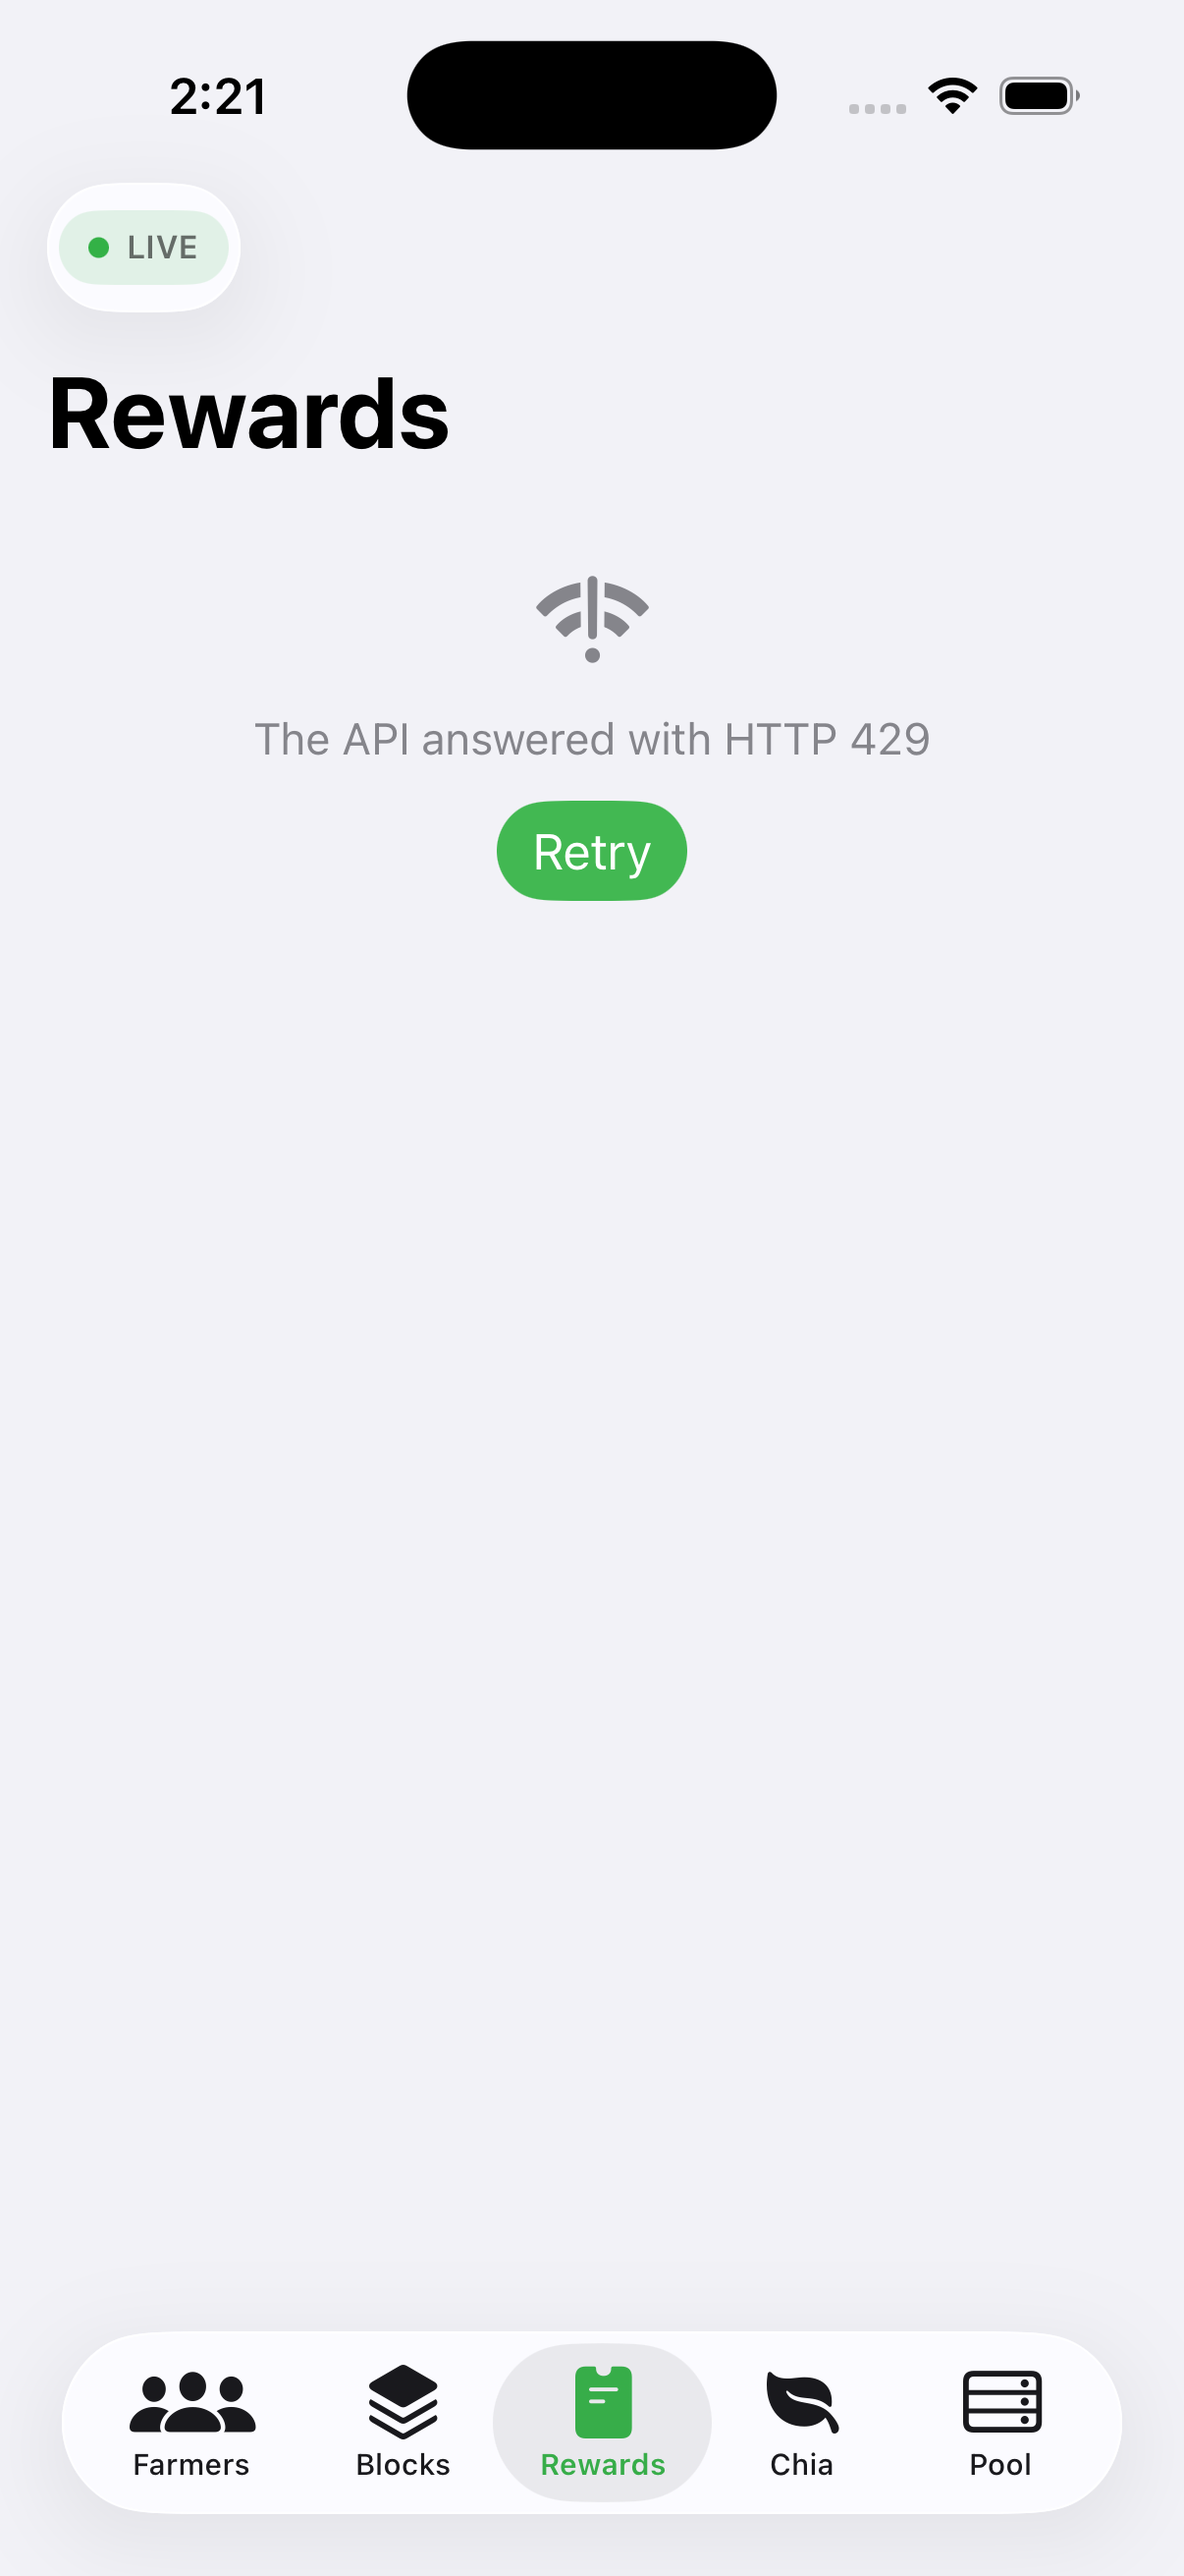
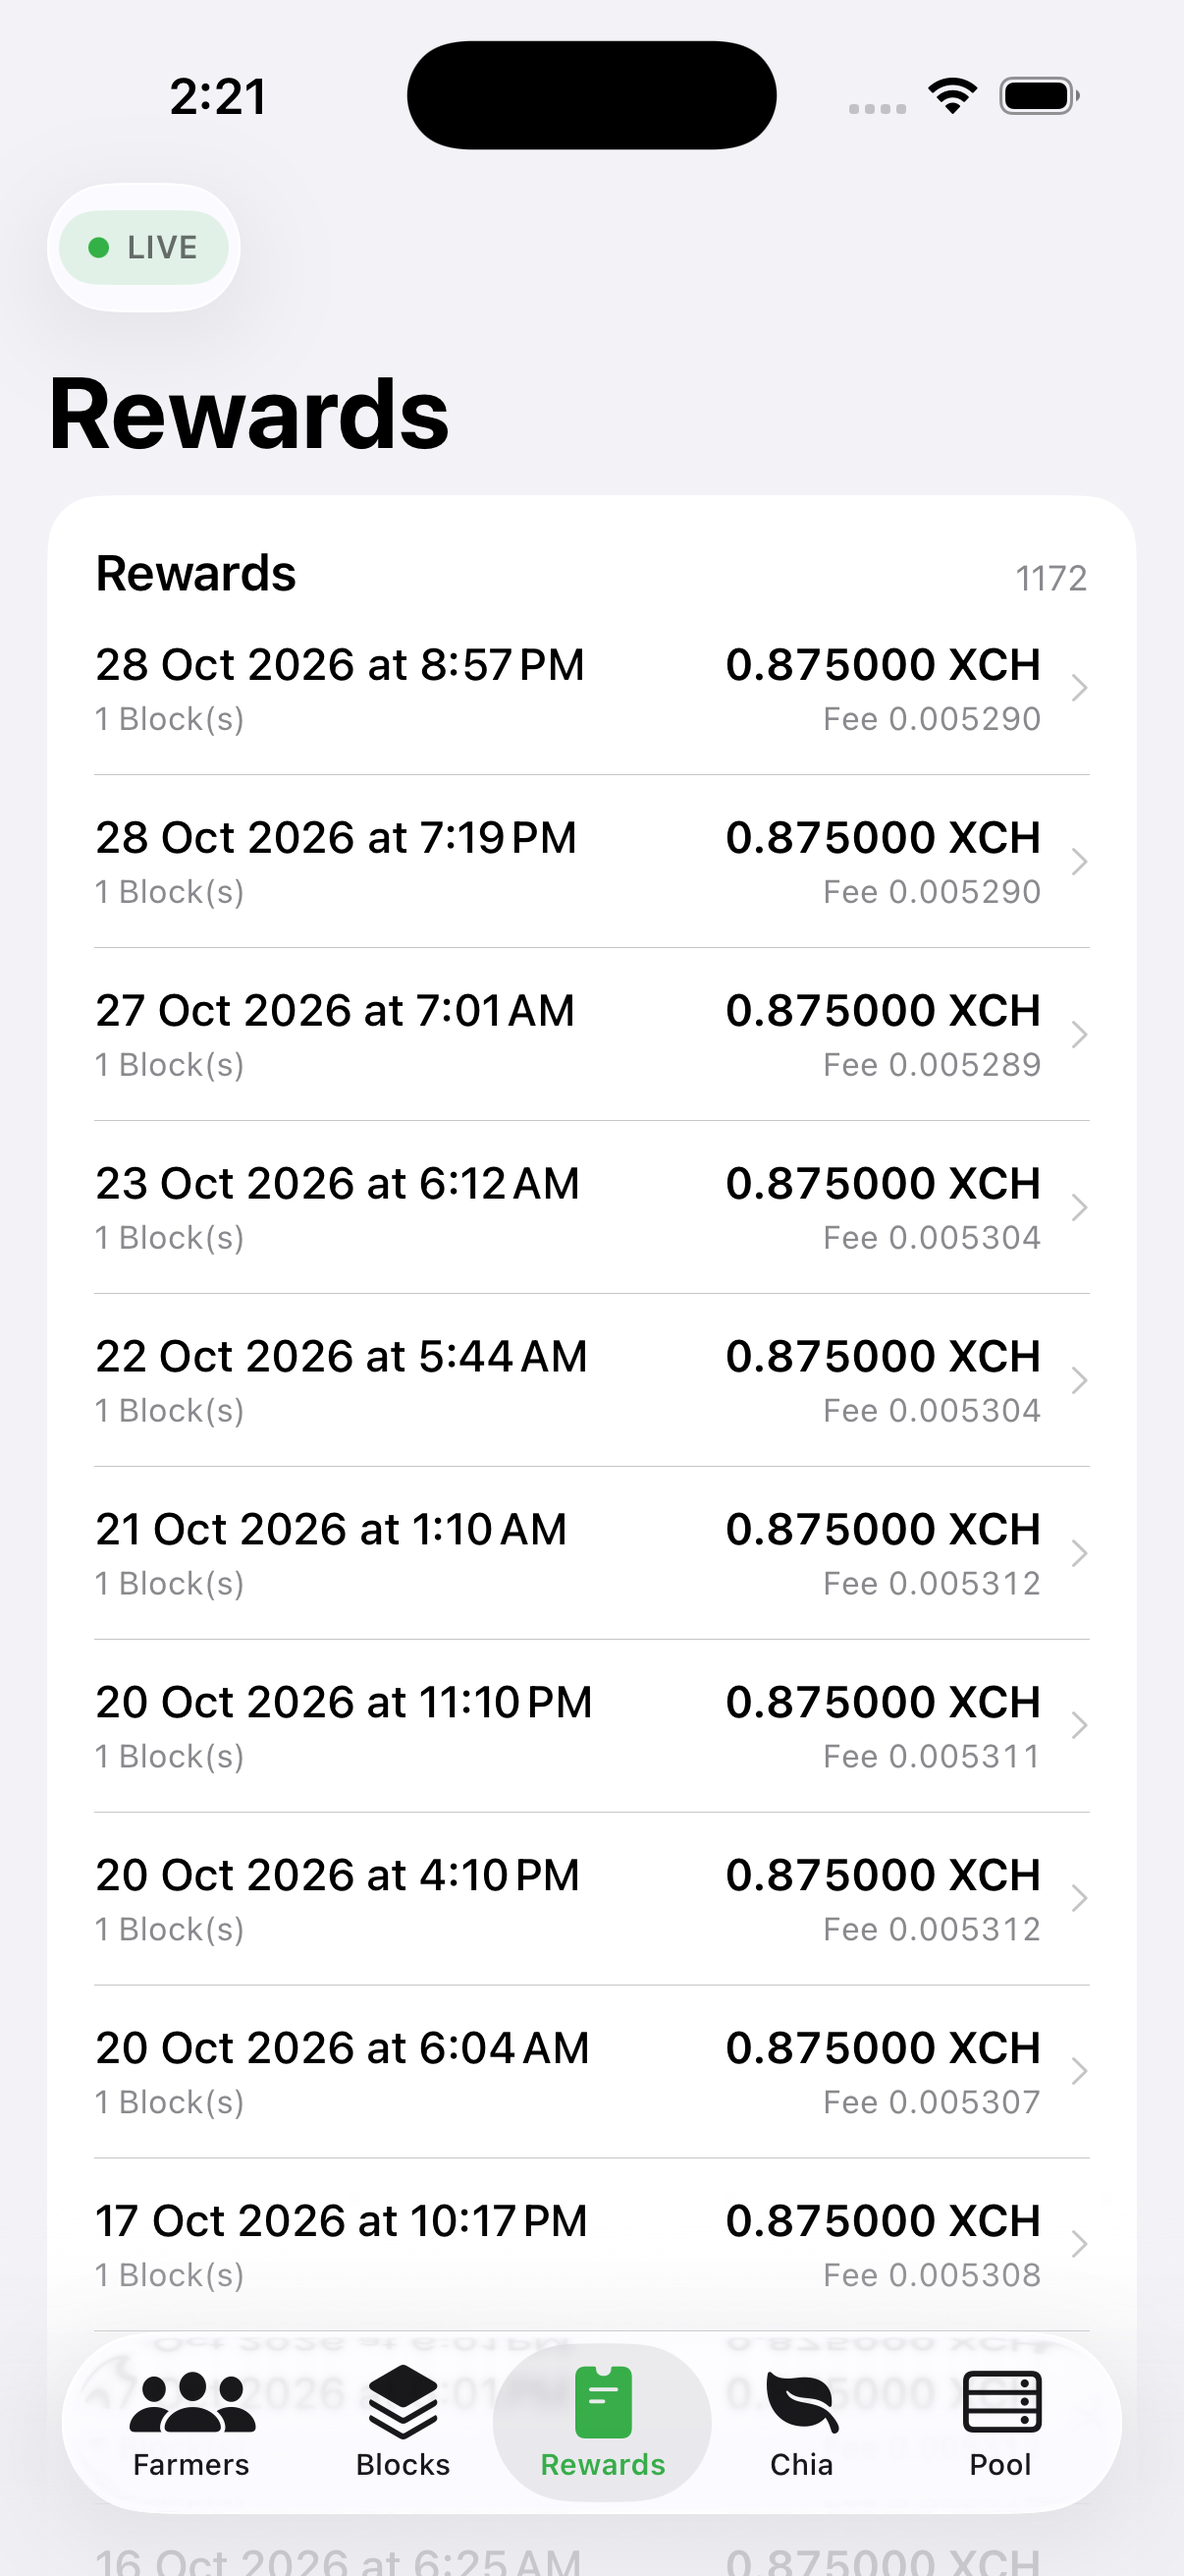
docs(screenshots): refresh rewards and pool captures

diff --git a/PoolEnergy/Features/Rewards/RewardsView.swift b/PoolEnergy/Features/Rewards/RewardsView.swift
@@ -16,7 +16,6 @@ struct RewardsView: View {
                     } else if vm.payouts.isEmpty, vm.isLoading {
                         LoadingView()
                     } else {
-                        summary
                         list
                     }
                 }
@@ -39,22 +38,6 @@ struct RewardsView: View {
             .sheet(item: $selected) { payout in
                 PayoutDetailView(payout: payout, viewModel: vm)
             }
-        }
-    }
-
-    private var summary: some View {
-        LazyVGrid(columns: [GridItem(.flexible(), spacing: 12), GridItem(.flexible(), spacing: 12)], spacing: 12) {
-            KPICard(
-                title: l10n.t("REWARDS.TOTAL_DISTRIBUTED"),
-                value: Fmt.xch(vm.loadedAmount) + " XCH",
-                subtitle: "\(vm.total) " + l10n.t("COMMON.BLOCKS"),
-                icon: "arrow.down.circle"
-            )
-            KPICard(
-                title: l10n.t("REWARDS.TOTAL_FEE"),
-                value: Fmt.xch(vm.loadedFees) + " XCH",
-                icon: "percent"
-            )
         }
     }
 

diff --git a/PoolEnergy/Features/Rewards/RewardsViewModel.swift b/PoolEnergy/Features/Rewards/RewardsViewModel.swift
@@ -17,14 +17,6 @@ final class RewardsViewModel {
     private var lastRefresh = Date.distantPast
     private let pageSize = 30
 
-    var loadedAmount: Double {
-        payouts.reduce(0) { $0 + Double($1.amount) }
-    }
-
-    var loadedFees: Double {
-        payouts.reduce(0) { $0 + Double($1.fee) }
-    }
-
     func load() async {
         isLoading = payouts.isEmpty
         error = nil
